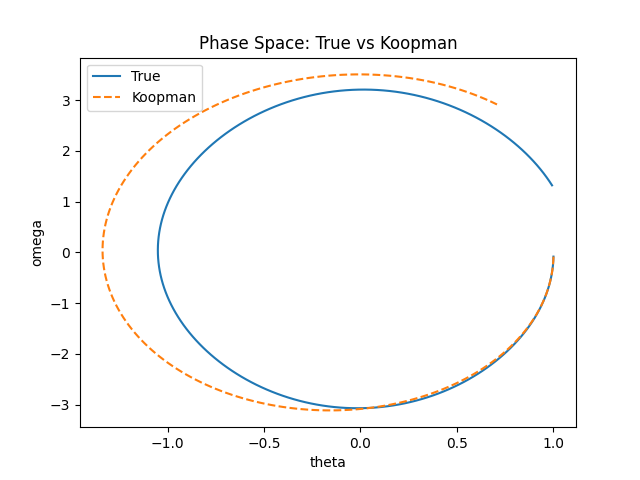
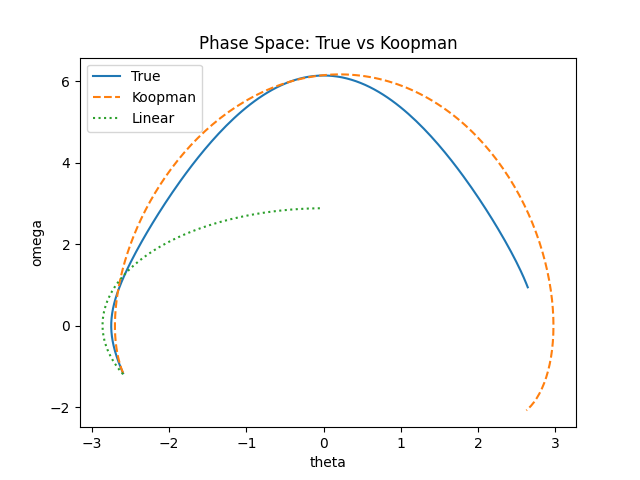
Fixed EDMD, cleaner data pipeline, added docstrings and typehints

diff --git a/experiments/compare_observables.py b/experiments/compare_observables.py
@@ -4,27 +4,10 @@ import matplotlib.pyplot as plt
 from src.utils import compute_error, compute_rollout_error
 from src.dynamics import pendulum_step, linearized_step
 from src.observables import richer_observables as observables
-from src.koopman import lift_data, compute_koopman
+from src.koopman import lift_data, compute_koopman_ridge        
+from src.data import generate_trajectories, split_trajectories, trajectories_to_dataset
 
-# =========================
-# Data Generation
-# =========================
-def generate_data(n_trajectories=50, steps=200):
-    X, Y = [], []
-
-    for _ in range(n_trajectories):
-        theta = np.random.uniform(-np.pi, np.pi)
-        omega = np.random.uniform(-2, 2)
-        x = np.array([theta, omega])
-
-        for _ in range(steps):
-            x_next = pendulum_step(x)
-            X.append(x)
-            Y.append(x_next)
-            x = x_next
-
-    return np.array(X), np.array(Y)
-
+np.random.seed(42)
 
 # =========================
 # Simulation Functions
@@ -66,16 +49,16 @@ def predict_koopman(K, C, x0, steps=200):
 # =========================
 # Training Function
 # =========================
+
 def train_koopman(X_train, Y_train):
     Z = lift_data(X_train, observables)
     Z_next = lift_data(Y_train, observables)
 
-    K = compute_koopman(Z, Z_next)
+    K = compute_koopman_ridge(Z, Z_next)
 
-    # Reconstruction matrix
     C = X_train.T @ np.linalg.pinv(Z.T)
 
-    return K, C
+    return K.T, C
 
 
 # =========================
@@ -83,21 +66,35 @@ def train_koopman(X_train, Y_train):
 # =========================
 def run_experiment():
     # ---- Generate data ----
-    X, Y = generate_data()
-
-    # ---- Train/test split ----
-    split = int(0.8 * len(X))
-    X_train, X_test = X[:split], X[split:]
-    Y_train, Y_test = Y[:split], Y[split:]
+    trajectories = generate_trajectories()
+    np.random.shuffle(trajectories)
+    train_trajs, test_trajs = split_trajectories(trajectories)
+    X_train, Y_train = trajectories_to_dataset(train_trajs)
+    X_test, Y_test = trajectories_to_dataset(test_trajs)
 
     # ---- Train Koopman ----
     K, C = train_koopman(X_train, Y_train)
     print("Koopman matrix shape:", K.shape)
 
     # ---- Pick test initial condition ----
-    x0 = X_test[0]
+    errors = []
+    linear_errors = []
+
+    for traj in test_trajs[:20]:
+        x0 = traj[0]
+
+        true_traj = simulate_true(x0)
+        koopman_traj = predict_koopman(K, C, x0)
+        linear_traj = simulate_linear(x0)
+
+        errors.append(compute_error(true_traj, koopman_traj))
+        linear_errors.append(compute_error(true_traj, linear_traj))
+
+    print("Koopman avg error:", np.mean(errors))
+    print("Linear avg error:", np.mean(linear_errors))
 
     # ---- Simulate ----
+    x0 = test_trajs[0][0]
     true_traj = simulate_true(x0)
     koopman_traj = predict_koopman(K, C, x0)
     linear_traj = simulate_linear(x0)

diff --git a/src/data.py b/src/data.py
@@ -1,0 +1,56 @@
+import numpy as np
+from src.dynamics import pendulum_step
+
+
+def generate_trajectories(n_trajectories=50, steps=200):
+    """
+    Generate trajectories of pendulum dynamics.
+
+    Returns:
+        list of arrays, each shape (steps+1, 2)
+    """
+    trajectories = []
+
+    for _ in range(n_trajectories):
+        theta = np.random.uniform(-np.pi, np.pi)
+        omega = np.random.uniform(-2, 2)
+
+        x = np.array([theta, omega])
+        traj = [x.copy()]
+
+        for _ in range(steps):
+            x = pendulum_step(x)
+            traj.append(x.copy())
+
+        trajectories.append(np.array(traj))
+
+    return trajectories
+
+
+def split_trajectories(trajectories, train_ratio=0.8):
+    """
+    Split trajectories into train/test sets.
+    """
+    n_train = int(train_ratio * len(trajectories))
+
+    train = trajectories[:n_train]
+    test = trajectories[n_train:]
+
+    return train, test
+
+
+def trajectories_to_dataset(trajectories):
+    """
+    Convert trajectory list into (X, Y) pairs.
+
+    Returns:
+        X: (N, 2)
+        Y: (N, 2)
+    """
+    X, Y = [], []
+
+    for traj in trajectories:
+        X.append(traj[:-1])
+        Y.append(traj[1:])
+
+    return np.vstack(X), np.vstack(Y)

diff --git a/experiments/eigen_analysis.py b/experiments/eigen_analysis.py
@@ -1,16 +1,20 @@
 import numpy as np
 import matplotlib.pyplot as plt
 
-from src.koopman import compute_koopman
+from src.koopman import compute_koopman_ridge
 from src.observables import richer_observables as basic_observables
-from experiments.compare_observables import generate_data
+from src.data import generate_trajectories, split_trajectories, trajectories_to_dataset
 
-X, Y = generate_data()
+np.random.seed(42)
+
+trajectories = generate_trajectories()
+train, test = split_trajectories(trajectories)
+X, Y = trajectories_to_dataset(train)
 
 Z = np.array([basic_observables(x) for x in X])
 Z_next = np.array([basic_observables(y) for y in Y])
 
-K = compute_koopman(Z, Z_next)
+K = compute_koopman_ridge(Z, Z_next)
 
 eigvals = np.linalg.eigvals(K)
 

diff --git a/src/koopman.py b/src/koopman.py
@@ -3,5 +3,21 @@ import numpy as np
 def lift_data(X, lift_fn):
     return np.array([lift_fn(x) for x in X])
 
-def compute_koopman(Z, Z_next):
-    return Z_next.T @ np.linalg.pinv(Z.T)
+def compute_koopman_ridge(Z, Z_next, reg=1e-6):
+    """
+    Compute Koopman operator using ridge regression (EDMD).
+
+    Z:       (N, D)
+    Z_next:  (N, D)
+
+    Returns:
+        K: (D, D)
+    """
+    D = Z.shape[1]
+
+    A = Z.T @ Z + reg * np.eye(D)      # (D, D)
+    B = Z.T @ Z_next                  # (D, D)
+
+    K = np.linalg.solve(A, B)         # more stable than inverse
+
+    return K

diff --git a/src/dynamics.py b/src/dynamics.py
@@ -1,9 +1,8 @@
 import numpy as np
 
-def pendulum_step(x, dt=0.01):
+def pendulum_step(x, dt=0.01, g=9.81, l=1.0):
     def f(x):
         theta, omega = x
-        g, l = 9.81, 1.0
         return np.array([omega, -(g/l)*np.sin(theta)])
 
     k1 = f(x)
